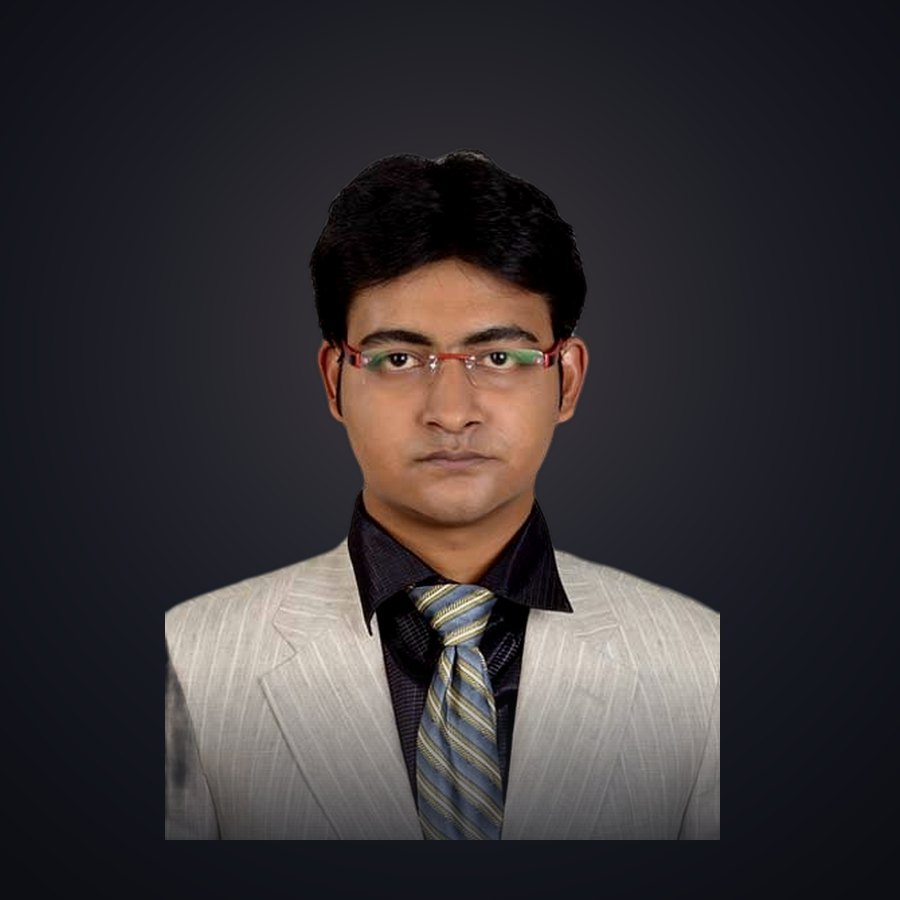
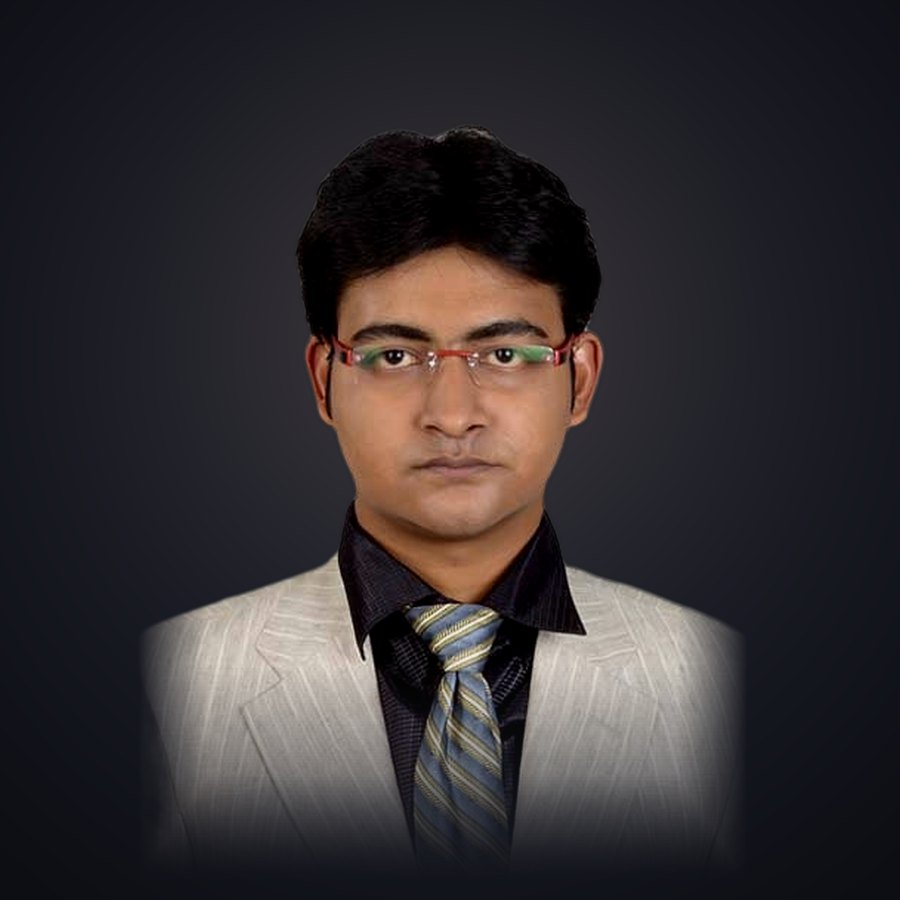
Offer: all five programs (VFX, Motion Graphics marked 'ask us' until numbers arrive); Arijit crop; brighter director backdrop; 12 vs 9 months notes
Claude-Session: https://claude.ai/code/session_01WVxd2HkQZGMhv4sizsTE7d

Changed region(s): [[0.1556, 0.1244, 0.84, 0.9333], [0.2489, 0.7156, 0.3111, 0.8089], [0.3111, 0.8089, 0.3422, 0.84]]

diff --git a/index.html b/index.html
@@ -406,7 +406,7 @@
     <canvas class="plans-bg" id="plansBg" width="1920" height="1080" aria-hidden="true"></canvas>
     <div class="plans" id="plans"></div>
     <div class="offer" id="offer" aria-hidden="true"></div>
-    <aside class="notes">HIDDEN ASM OFFER (only if needed): press O (or click the small grey "Pick a path" text, top right) → the hybrid plan for ASM opens with standard months. → rolls the months to the hybrid plan (Game Art 12→7, UI/UX 12→9 and 6→3, Digital Design &amp; Marketing 12→8) and shows the week: Mon–Tue on their campus, Wed–Fri live online, 2 hrs a day. → again goes straight to the next slide. Prices stay hidden: press R (or click "Minimum batch") only if asked; R again hides them. ← or Esc closes the offer. ——— Read it like a pricing page, longest track first: one click per card. The background changes with each card: a game world, VFX sparks, motion-graphics shapes, then UI wireframes. Don't mention fees. Land on UI/UX: "6 months, done alongside your MCA." Course and software lists are from the ZICA Curriculum 2026–27 workbook and live in assets/config.js. Other tracks if asked: 12-month Professional Programs in 3D Animation, Film Making VFX, Graphic Design, UI & UX, Digital Design & Marketing, Visual Promotion & Ad Design; 2-month Creative Gen AI.</aside>
+    <aside class="notes">HIDDEN ASM OFFER (only if needed): press O (or click the small grey "Pick a path" text, top right) → the hybrid plan for ASM opens with standard months. → rolls the months to the hybrid plan (Game Art 12→7, UI/UX 12→9 and 6→3, Digital Design &amp; Marketing 12→8) and shows the week: Mon–Tue on their campus, Wed–Fri live online, 2 hrs a day. → again goes straight to the next slide. Prices stay hidden: press R (or click "Minimum batch") only if asked; R again hides them. ← or Esc closes the offer. IF ASKED "12 months vs 9 months, what's the difference?": same programme, same software, same portfolio projects; the hybrid plan packs more hours into each week (2 hrs every weekday, 10 hrs a week), so it finishes sooner; 2 days with our faculty on your campus, 3 days live online, so no daily travel to Kothrud; it runs only as an ASM batch (minimum 5 students), so you move with your own classmates; it needs regular attendance, because there is less slack in the calendar. VFX and Motion Graphics cards say "Hybrid plan: ask us" until their numbers are added in assets/config.js. ——— Read it like a pricing page, longest track first: one click per card. The background changes with each card: a game world, VFX sparks, motion-graphics shapes, then UI wireframes. Don't mention fees. Land on UI/UX: "6 months, done alongside your MCA." Course and software lists are from the ZICA Curriculum 2026–27 workbook and live in assets/config.js. Other tracks if asked: 12-month Professional Programs in 3D Animation, Film Making VFX, Graphic Design, UI & UX, Digital Design & Marketing, Visual Promotion & Ad Design; 2-month Creative Gen AI.</aside>
   </section>
 
   <!-- ============ 9 · UI/UX SPOTLIGHT ============ -->

diff --git a/assets/deck.js b/assets/deck.js
@@ -424,12 +424,13 @@
     var I_CAMPUS = '<svg viewBox="0 0 24 24" width="34" height="34" fill="none" stroke="currentColor" stroke-width="1.8"><path d="M3 21h18M5 21V9l7-5 7 5v12"/><path d="M9 21v-6h6v6"/></svg>';
     var I_ONLINE = '<svg viewBox="0 0 24 24" width="34" height="34" fill="none" stroke="currentColor" stroke-width="1.8"><rect x="3" y="4" width="18" height="12" rx="1"/><path d="M8 20h8M12 16v4"/><circle cx="12" cy="10" r="2.2"/></svg>';
     function ver(v) {
-      return '<div class="o-ver"><div class="o-tier">' + v.tier + '</div>' +
-        '<div class="o-dur"><b data-from="' + v.from + '" data-to="' + v.to + '">' + v.from + '</b><span>months</span></div>' +
-        '<div class="o-was">usually <s>' + v.from + ' months</s></div>' +
-        '<div class="o-price"><s>' + inr(v.mrp) + '</s><b>' + inr(v.offer) + '</b><i>You save ' + inr(v.mrp - v.offer) + '</i></div></div>';
+      var tbc = v.to == null;
+      return '<div class="o-ver' + (tbc ? ' tbc' : '') + '"><div class="o-tier">' + v.tier + '</div>' +
+        '<div class="o-dur"><b data-from="' + v.from + '" data-to="' + (tbc ? v.from : v.to) + '">' + v.from + '</b><span>months</span></div>' +
+        '<div class="o-was">' + (tbc ? 'Hybrid plan: ask us' : 'usually <s>' + v.from + ' months</s>') + '</div>' +
+        (v.mrp && v.offer ? '<div class="o-price"><s>' + inr(v.mrp) + '</s><b>' + inr(v.offer) + '</b><i>You save ' + inr(v.mrp - v.offer) + '</i></div>' : '') + '</div>';
     }
-    var h = '<div class="o-head"><div class="o-kick">' + o.kicker + '</div><div class="o-title">' + o.title + '</div><div class="o-sub">' + o.sub + '</div></div><div class="o-grid">';
+    var h = '<div class="o-head"><div class="o-kick">' + o.kicker + '</div><div class="o-title">' + o.title + '</div><div class="o-sub">' + o.sub + '</div></div><div class="o-grid n' + o.rows.length + '">';
     o.rows.forEach(function (r, i) {
       h += '<div class="o-card' + (r.highlight ? ' hi' : '') + (r.versions.length > 1 ? ' wide' : '') + '" style="--i:' + i + '">' +
         '<div class="o-pill">' + (r.highlight ? 'Highly recommended' : 'Recommended') + '</div>' +

diff --git a/assets/deck.css b/assets/deck.css
@@ -790,3 +790,29 @@ body.overview .stage { overflow: auto; }
 .offer.money .o-name { min-height: 0; }
 .offer.money .o-card:not(.wide) .o-name { min-height: 80px; }
 .offer.money .o-week { margin-top: 20px; }
+
+/* five programs: UI/UX hero tile on the left, four compact tiles in a 2×2 */
+.o-grid.n5 { grid-template-columns: 1.55fr 1fr 1fr; grid-template-rows: auto auto; gap: 18px; margin-top: 30px; }
+.o-grid.n5 .o-card.wide { grid-row: span 2; display: flex; flex-direction: column; }
+.o-grid.n5 .o-card.wide .o-vers { grid-auto-flow: row; flex: 1; align-content: space-evenly; }
+.o-grid.n5 .o-card.wide .o-ver + .o-ver { border-left: 0; padding-left: 0; margin-left: 0; border-top: 1px dashed rgba(255,181,71,.35); padding-top: 14px; margin-top: 14px; }
+.o-grid.n5 .o-card:not(.wide) { padding: 20px 26px 18px; }
+.o-grid.n5 .o-card:not(.wide) .o-name { font-size: 30px; min-height: 0; margin-top: 6px; }
+.o-grid.n5 .o-card:not(.wide) .o-tier { font-size: 17px; margin-top: 4px; }
+.o-grid.n5 .o-card:not(.wide) .o-dur b { font-size: 84px; }
+.o-grid.n5 .o-card:not(.wide) .o-dur span { font-size: 22px; }
+.o-grid.n5 .o-card:not(.wide) .o-was { font-size: 17px; height: 22px; margin-top: 4px; }
+.o-grid.n5 .o-card.wide .o-dur b { font-size: 112px; }
+.o-grid.n5 .o-price { margin-top: 10px; }
+.offer.money .o-grid.n5 .o-price b { font-size: 30px; }
+.offer.money .o-grid.n5 .o-price s { font-size: 17px; }
+.offer.money .o-grid.n5 .o-card:not(.wide) .o-dur b { font-size: 64px; }
+.offer.money .o-grid.n5 .o-card.wide .o-dur b { font-size: 84px; }
+.offer.hyb .o-ver.tbc .o-dur b { color: var(--text); text-shadow: none; }
+.o-ver.tbc .o-was { color: var(--key); font-weight: 600; }
+.offer:has(.o-grid.n5) .o-title { font-size: 72px; }
+.offer:has(.o-grid.n5) .o-sub { font-size: 24px; margin-top: 8px; }
+.offer:has(.o-grid.n5) .o-week { margin-top: 20px; }
+.offer:has(.o-grid.n5) .o-day { padding: 12px 18px; }
+.offer:has(.o-grid.n5) .o-batch b { font-size: 44px; }
+.offer.money:has(.o-grid.n5) .o-week { display: none; }

diff --git a/assets/config.js b/assets/config.js
@@ -61,12 +61,18 @@ window.DECK_CONFIG = {
     hours: '2 hrs',
     week: ['Campus', 'Campus', 'Online', 'Online', 'Online'],   // Mon → Fri
     minBatch: 5,
+    /* to: null = hybrid months not decided yet → the card says "Hybrid plan: ask us" (no number invented).
+       First row is the big tile. */
     rows: [
-      { name: 'Game Art & Design', versions: [
-        { tier: 'Professional Program', from: 12, to: 7, mrp: 170000, offer: 120000 } ] },
       { name: 'UI & UX', highlight: true, versions: [
         { tier: 'Professional Program', from: 12, to: 9, mrp: 150000, offer: 100000 },
         { tier: 'Program',              from: 6,  to: 3, mrp: 65000,  offer: 45000 } ] },
+      { name: 'Game Art & Design', versions: [
+        { tier: 'Professional Program', from: 12, to: 7, mrp: 170000, offer: 120000 } ] },
+      { name: 'Visual Effects', versions: [
+        { tier: 'Professional Program', from: 12, to: null, mrp: null, offer: null } ] },
+      { name: 'Adv. Motion Graphics', versions: [
+        { tier: 'Program', from: 6, to: null, mrp: null, offer: null } ] },
       { name: 'Digital Design & Marketing', versions: [
         { tier: 'Professional Program', from: 12, to: 8, mrp: 150000, offer: 100000 } ] }
     ]
